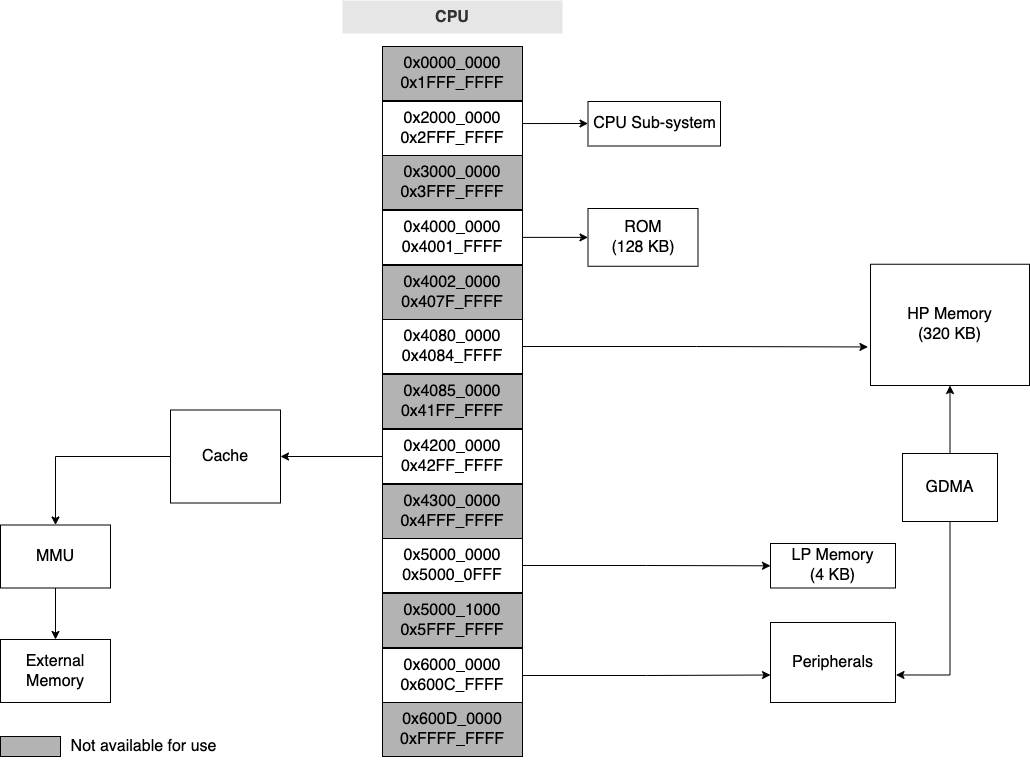
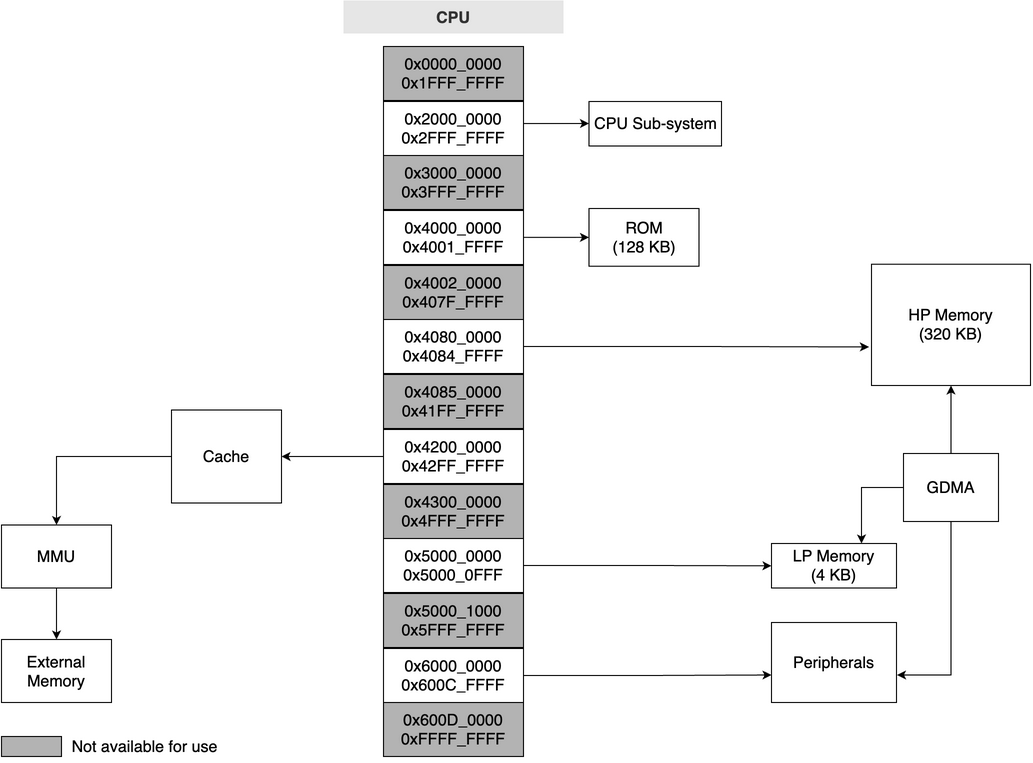
ESP32-H2/SYSMEM: Add LP SRAM to GDMA address space

diff --git a/ESP32-H2/04-SYSMEM__EN.tex b/ESP32-H2/04-SYSMEM__EN.tex
@@ -94,7 +94,7 @@
     	    \item 452 KB of internal memory address space accessed from the instruction bus or data bus
     	    \item 832 KB of peripheral address space 
     	    \item 16 MB of external memory virtual address space accessed from the instruction bus or data bus
-    	    \item 320 KB of internal DMA address space
+    	    \item 324 KB of internal DMA address space
         \end{itemize}
     \item {\bfseries Internal Memory}
         \begin{itemize}
@@ -236,9 +236,11 @@ The General Direct Memory Access (GDMA) peripheral consisting of three TX channe
     \item data transfers between modules/peripherals and internal memory
 \end{itemize}
 
-GDMA uses the same addresses as the data bus to access HP SRAM, i.e., GDMA uses address range 0x4080\_0000 \verb+~+ 0x4084\_FFFF to access HP SRAM. 
+GDMA uses the same addresses as the data bus to access HP SRAM and LP SRAM, i.e., address range 0x4080\_0000 \verb+~+ 0x4084\_FFFF for HP SRAM and 0x5000\_0000 \verb+~+ 0x5000\_0FFF for LP SRAM.
 
-Eight modules/peripherals in \chipname{} work together with GDMA. As shown in Figure \ref{fig:sysmem-gdma-peripheral}, eight vertical lines correspond to these eight modules/peripherals with GDMA function. The horizontal line represents a certain channel of GDMA (can be any channel), and the intersection of the vertical line and the horizontal line indicates that a module/peripheral has the ability to access the corresponding channel of GDMA. If there are multiple intersections on the same line, it means that these peripherals/modules can not enable the GDMA function at the same time.
+Eight modules/peripherals in \chipname{} work together with GDMA. These modules/peripherals are SPI2, UART0, UART1, I2S, AES, SHA, ADC, and PARLIO. UART0 and UART1 use UHCI (Universal Host Controller Interface) together.
+
+As shown in Figure \ref{fig:sysmem-gdma-peripheral}, eight vertical lines correspond to these eight modules/peripherals with GDMA function. The horizontal line represents a certain channel of GDMA (can be any channel), and the intersection of the vertical line and the horizontal line indicates that a module/peripheral has the ability to access the corresponding channel of GDMA. If there are multiple intersections on the same line, it means that these peripherals/modules can not enable the GDMA function at the same time.
 
 
 \begin{figure}[H]

diff --git a/ESP32-H2/00-chip-spec-content/revision-history__EN.tex b/ESP32-H2/00-chip-spec-content/revision-history__EN.tex
@@ -21,6 +21,12 @@
     \endlastfoot
 
     % table contents
+    2026-xx-xx & v1.3 &
+    Updated the following chapters:
+    \begin{itemize}
+    \item Chapter \ref{mod:sysmem} \textit{\nameref{mod:sysmem}}: Updated the internal DMA address space to 324 KB to include LP SRAM, and clarified that UART0 and UART1 share one UHCI interface
+    \end{itemize}
+    \\\hline
     2026-10-12 & v1.2 &
     Updated the following chapters:
     \begin{itemize}

diff --git a/ESP32-H2/00-chip-spec-content/revision-history__CN.tex b/ESP32-H2/00-chip-spec-content/revision-history__CN.tex
@@ -22,6 +22,12 @@
 
     % table contents
 
+    2026-xx-xx & v1.3 &
+    更新以下章节：
+    \begin{itemize}
+    \item 章节 \ref{mod:sysmem} \textit{\nameref{mod:sysmem}}：将内部 DMA 地址空间更新为 324 KB，纳入 LP SRAM，并说明 UART0 与 UART1 共用一个 UHCI 接口
+    \end{itemize}
+    \\\hline
     2026-10-12 & v1.2 &
     更新以下章节：
     \begin{itemize}
